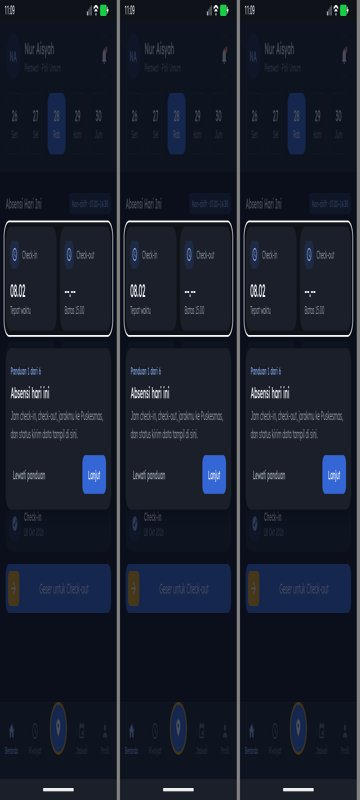
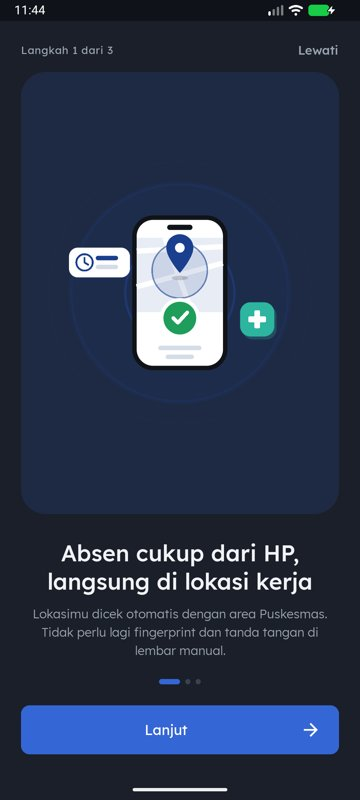
Perbaiki screenshot onboarding dan urutkan versi dari yang paling awal

diff --git a/README.md b/README.md
@@ -24,6 +24,29 @@ Riwayat perubahan lengkap per versi ada di [docs/CHANGELOG.md](docs/CHANGELOG.md
 
 ---
 
+## v0.1.0 – Prototipe tampilan Android
+
+Minggu 12 (11 November 2026). Checkpoint: implementasi halaman Android, Splash Screen, onboarding, login, navigasi, dashboard.
+
+| Profil | Splash | Login | Riwayat |
+|---|---|---|---|
+| <img src="docs/screenshots/submitted/01_profile.png" width="180" alt="Halaman profil"> | <img src="docs/screenshots/submitted/02_splash.png" width="180" alt="Halaman splash"> | <img src="docs/screenshots/submitted/03_login.png" width="180" alt="Halaman login"> | <img src="docs/screenshots/submitted/04_history.png" width="180" alt="Halaman riwayat absensi"> |
+
+| Tentang aplikasi | Dialog keluar | Onboarding | Notifikasi |
+|---|---|---|---|
+| <img src="docs/screenshots/submitted/05_about.png" width="180" alt="Halaman tentang aplikasi"> | <img src="docs/screenshots/submitted/06_logout_dialog.png" width="180" alt="Dialog keluar akun"> | <img src="docs/screenshots/submitted/07_onboarding.png" width="180" alt="Halaman onboarding"> | <img src="docs/screenshots/submitted/08_notifications.png" width="180" alt="Halaman notifikasi"> |
+
+Pratinjau layout dari Android Studio (tema terang):
+
+| Splash | Login | Beranda | Riwayat | Profil |
+|---|---|---|---|---|
+| <img src="docs/screenshots/01_splash.png" width="160" alt="Splash"> | <img src="docs/screenshots/02_login.png" width="160" alt="Login"> | <img src="docs/screenshots/03_beranda.png" width="160" alt="Beranda"> | <img src="docs/screenshots/04_riwayat.png" width="160" alt="Riwayat absensi"> | <img src="docs/screenshots/05_profil.png" width="160" alt="Profil"> |
+
+Isi versi ini: 29 layout dari Figma, tema terang dan gelap, font Lexend, Navigation Graph, BaseFragment dan bottom navigation,
+alur check-in dengan radius 150 m (data contoh), jarak ikon dan animasi ikon ringan.
+
+---
+
 ## v0.2.0 – Backend, Admin Web, dan integrasi aplikasi
 
 Minggu 13 (18 November 2026). Checkpoint: implementasi fitur utama, basis data, CRUD, REST API, dan aturan validasi absensi.
@@ -60,29 +83,6 @@ Minggu 13 (18 November 2026). Checkpoint: implementasi fitur utama, basis data, 
 | Aplikasi Android | Login, check-in GPS, check-out geser, riwayat, jadwal, izin, koreksi, tugas lapangan, notifikasi, profil, antrean offline |
 | Tampilan | Intro animasi Lottie, onboarding 3 halaman, panduan awal (coach mark) saat pertama masuk Beranda |
 | Pengujian | 133 test otomatis backend lulus; alur aplikasi dan web diuji di emulator dan browser |
-
----
-
-## v0.1.0 – Prototipe tampilan Android
-
-Minggu 12 (11 November 2026). Checkpoint: implementasi halaman Android, Splash Screen, onboarding, login, navigasi, dashboard.
-
-| Profil | Splash | Login | Riwayat |
-|---|---|---|---|
-| <img src="docs/screenshots/submitted/01_profile.png" width="180" alt="Halaman profil"> | <img src="docs/screenshots/submitted/02_splash.png" width="180" alt="Halaman splash"> | <img src="docs/screenshots/submitted/03_login.png" width="180" alt="Halaman login"> | <img src="docs/screenshots/submitted/04_history.png" width="180" alt="Halaman riwayat absensi"> |
-
-| Tentang aplikasi | Dialog keluar | Onboarding | Notifikasi |
-|---|---|---|---|
-| <img src="docs/screenshots/submitted/05_about.png" width="180" alt="Halaman tentang aplikasi"> | <img src="docs/screenshots/submitted/06_logout_dialog.png" width="180" alt="Dialog keluar akun"> | <img src="docs/screenshots/submitted/07_onboarding.png" width="180" alt="Halaman onboarding"> | <img src="docs/screenshots/submitted/08_notifications.png" width="180" alt="Halaman notifikasi"> |
-
-Pratinjau layout dari Android Studio (tema terang):
-
-| Splash | Login | Beranda | Riwayat | Profil |
-|---|---|---|---|---|
-| <img src="docs/screenshots/01_splash.png" width="160" alt="Splash"> | <img src="docs/screenshots/02_login.png" width="160" alt="Login"> | <img src="docs/screenshots/03_beranda.png" width="160" alt="Beranda"> | <img src="docs/screenshots/04_riwayat.png" width="160" alt="Riwayat absensi"> | <img src="docs/screenshots/05_profil.png" width="160" alt="Profil"> |
-
-Isi versi ini: 29 layout dari Figma, tema terang dan gelap, font Lexend, Navigation Graph, BaseFragment dan bottom navigation,
-alur check-in dengan radius 150 m (data contoh), jarak ikon dan animasi ikon ringan.
 
 ---
 

diff --git a/docs/CHANGELOG.md b/docs/CHANGELOG.md
@@ -1,27 +1,19 @@
 # Riwayat Perubahan SIMPRES
 
-Format: setiap versi berisi bagian **Ditambah**, **Diubah**, dan **Diperbaiki**. Versi yang belum dirilis ditandai *rencana*.
+Format: setiap versi berisi bagian **Ditambah**, **Diubah**, dan **Diperbaiki**. Diurutkan dari versi paling awal. Versi yang belum dirilis ditandai *rencana*.
 
-## [1.0.0] – 2 Desember 2026 (rencana, Minggu 15)
-
-### Ditambah
-- Backend dan Admin Web dipasang di hosting dengan HTTPS.
-- APK rilis untuk pegawai.
-- Video demonstrasi dan laporan akhir PjBL.
-
-### Diubah
-- Akun contoh diganti akun asli pegawai, kata sandi awal dibuat oleh admin.
-
-## [0.3.0] – 25 November 2026 (rencana, Minggu 14)
+## [0.1.0] – 11 November 2026 (Minggu 12)
 
 ### Ditambah
-- Notifikasi push Firebase Cloud Messaging saat izin, koreksi, atau tugas lapangan diputuskan.
-- Pengiriman ulang antrean offline otomatis (WorkManager).
-- Kamera bukti tugas lapangan (CameraX) dan peta di halaman check-in.
-- Token login terenkripsi dengan Android Keystore.
+- Proyek Android Kotlin dengan layout XML (package `com.simpres.app`, Android 8.0 ke atas) dan Navigation Component.
+- 29 layout halaman dari desain Figma, termasuk Splash, Onboarding, Login, Lupa Kata Sandi, Beranda, Tentang Aplikasi, dialog keluar.
+- Tema terang dan gelap, font Lexend, ikon, dan latar komponen (kartu, chip, tombol, input).
+- BaseFragment, bottom navigation, dan pemeriksaan koneksi internet.
+- Alur check-in dengan aturan radius 150 m (data contoh), halaman Di Luar Radius dan Tersimpan Offline.
+- Dokumentasi screenshot tampilan di README.
 
-### Pengujian
-- Pengujian sistem bersama pegawai Puskesmas, evaluasi mitra, dan demo prototipe.
+### Diperbaiki
+- Jarak ikon pada tombol dan menu, ditambah animasi ikon ringan.
 
 ## [0.2.0] – 18 November 2026 (Minggu 13)
 
@@ -56,15 +48,23 @@ Format: setiap versi berisi bagian **Ditambah**, **Diubah**, dan **Diperbaiki**.
 - Alur aplikasi diuji di emulator: login, check-in, check-out, izin, riwayat, jadwal, notifikasi.
 - Admin Web diuji di browser: semua halaman terbuka, persetujuan izin mengirim notifikasi ke aplikasi.
 
-## [0.1.0] – 11 November 2026 (Minggu 12)
+## [0.3.0] – 25 November 2026 (rencana, Minggu 14)
 
 ### Ditambah
-- Proyek Android Kotlin dengan layout XML (package `com.simpres.app`, Android 8.0 ke atas) dan Navigation Component.
-- 29 layout halaman dari desain Figma, termasuk Splash, Onboarding, Login, Lupa Kata Sandi, Beranda, Tentang Aplikasi, dialog keluar.
-- Tema terang dan gelap, font Lexend, ikon, dan latar komponen (kartu, chip, tombol, input).
-- BaseFragment, bottom navigation, dan pemeriksaan koneksi internet.
-- Alur check-in dengan aturan radius 150 m (data contoh), halaman Di Luar Radius dan Tersimpan Offline.
-- Dokumentasi screenshot tampilan di README.
+- Notifikasi push Firebase Cloud Messaging saat izin, koreksi, atau tugas lapangan diputuskan.
+- Pengiriman ulang antrean offline otomatis (WorkManager).
+- Kamera bukti tugas lapangan (CameraX) dan peta di halaman check-in.
+- Token login terenkripsi dengan Android Keystore.
 
-### Diperbaiki
-- Jarak ikon pada tombol dan menu, ditambah animasi ikon ringan.
+### Pengujian
+- Pengujian sistem bersama pegawai Puskesmas, evaluasi mitra, dan demo prototipe.
+
+## [1.0.0] – 2 Desember 2026 (rencana, Minggu 15)
+
+### Ditambah
+- Backend dan Admin Web dipasang di hosting dengan HTTPS.
+- APK rilis untuk pegawai.
+- Video demonstrasi dan laporan akhir PjBL.
+
+### Diubah
+- Akun contoh diganti akun asli pegawai, kata sandi awal dibuat oleh admin.
